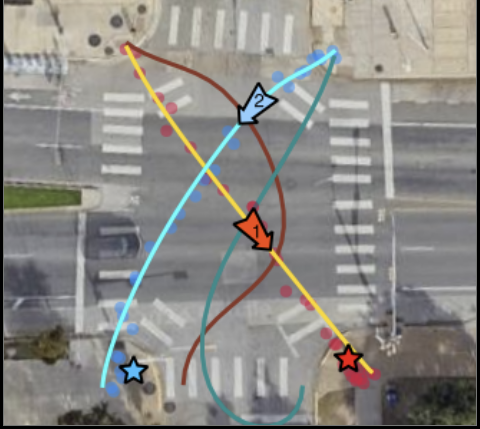
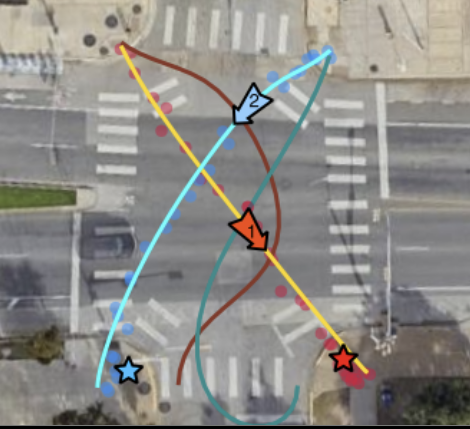
worked on inf. disc. factors page

diff --git a/projects/inferring_discount_factors.md b/projects/inferring_discount_factors.md
@@ -186,7 +186,58 @@ Problem 1 can be separated into an outer *inverse* problem and an inner *forward
 ## Solution Approach
 Let's pause and recap. We want to solve an optimization problem that finds game parameters and discount factors that maximize the likelihood of producing some observations we have of the game. However, due to the game's structure, this optimization problem is both non-convex *and* non-smooth? How do we even go about solving this?
 
-Our approach: a constrained gradient decent algorithm that requires us to take derivatives of game *solutions* $(\textbf{x},\textbf{u})$ with respect to parameters $(\gamma, \theta)$.
+Our approach: a constrained gradient decent algorithm that requires us to take derivatives of game *solutions* $(\textbf{x},\textbf{u})$ with respect to parameters $(\gamma, \theta)$. First, we have to represent $\mathcal{G}(\theta, \gamma)$ as a workable form: let's convert the game's first-order necessary conditions into an MiCP!
+
+### GOLNE as an MiCP
+
+As one does when beginning a constrained optimization problem, we need begin by writing the agents' first order necessary conditions. First, we introduce Lagrange multipliers $\lambda^i$ and $\mu^i$ to represent agent $i$'s inequality and equality constraints, respectively. We can then write its Lagrangian as:
+
+$$
+\mathcal{L}^i (\textbf{x},\textbf{u},\lambda^i$, $\mu^i; \gamma, \theta) = C^i (\textbf{x},\textbf{u}; \gamma, \theta) - \lambda^{i,\top} I^i(\textbf{x},\textbf{u};\theta^i) -\mu^{i,\top} E^i(\textbf{x},\textbf{u};\theta^i).
+$$
+
+When the gradients of the constraints are linearly independent at a candidate solution point, we satisfy the linear independence constraint qualification. As such, the following Karush-Kuhn-Tucker (KKT) conditions must hold for each agent $i$:
+
+$$
+\begin{align}
+\nabla_\textbf{x} \mathcal{L}^i = 0, \nabla_{\textbf{u}^i} \mathcal{L}^i = 0, E^i = 0 \\
+0 \leq \lambda^i \perp I^i(\textbf{x},\textbf{u};\theta^i) \geq 0.
+\end{align}
+$$
+
+These equations have the exact same form as the MiCP formulation we previously discussed! Let's make it even more explicit. 
+
+The MiCP decision variable $r$ is now the aggregated states, actions, and equality Lagrangian multipliers for all agents, and the MiCP decision variable $z$ is now all agents' inequality Lagrange multipliers, i.e.,
+
+$$
+\begin{align}
+r &= (\textbf{x}^\top, \textbf{u}^\top, \mu^{1,\top}, \mu^{2,\top},...,\mu^{N,\top})^\top\\
+z &= (\lambda^{1,\top}, \lambda^{2,\top},...,\lambda^{N,\top})^\top.
+\end{align}
+$$
+
+For brevity, let's define $v = (r^\top, z^\top)^\top$. Then, the parametrized MiCP for each agent can be written as:
+
+$$
+c(v; \theta, \lambda) = [(\nabla_\textbf{x}\mathcal{L}^i)^\top_{i\in[N]}, (\nabla_{\textbf{u}^i}\mathcal{L}^i)^\top_{i\in[N]}, (E^i)^\top_{i\in[N]}]^\top
+h(v; \theta, \lambda) = [(I^i)^\top_{i\in[N]}]
+$$
+
+For brevity, let's define a function $F$ such that $F = [c(\cdot)^\top,h(\cdot)^\top]^\top$.
+
+### Optimizing Game Parameters with Gradient Descent
+
+Now that we have constructed an MiCP that encodes our game's first order necessary conditions, we can do some interesting things with it. For example, applying the chain rule will allow us to achieve our goal of deriving game solutions with respect to the game's parameters.
+
+<!-- <a href="https://en.wikipedia.org/wiki/Implicit_function_theorem" target="_blank" rel="noopener noreferrer">Implicit Function Theorem (IFT)</a> -->
+
+Let's denote the objective of Problem 1 as $\mathcal{P}(\cdot)$ such that $\mathcal{P}(\textbf{x}(\theta,\gamma)) = \sum_{t=1}^T ~(h_t(x(t)) - y_t)^\top \Sigma_t^{-1} (h_t(x(t)) - y_t)$. We can then leverage the chain rule to compute its total derivative with respect to $(\theta,\gamma)$:
+
+$$
+\nabla_{(\theta, \lambda)} \mathcal{P}(\textbf{x}(\theta,\gamma)) = (\nabla_{(\theta, \lambda)} v)^\top (\nabla_v \textbf{x})^\top (\nabla_\textbf{x} \mathcal{P}),
+$$
+
+with which we can update $(\theta,\gamma)$ accordingly.
 
 ## Experimental Setup
 
